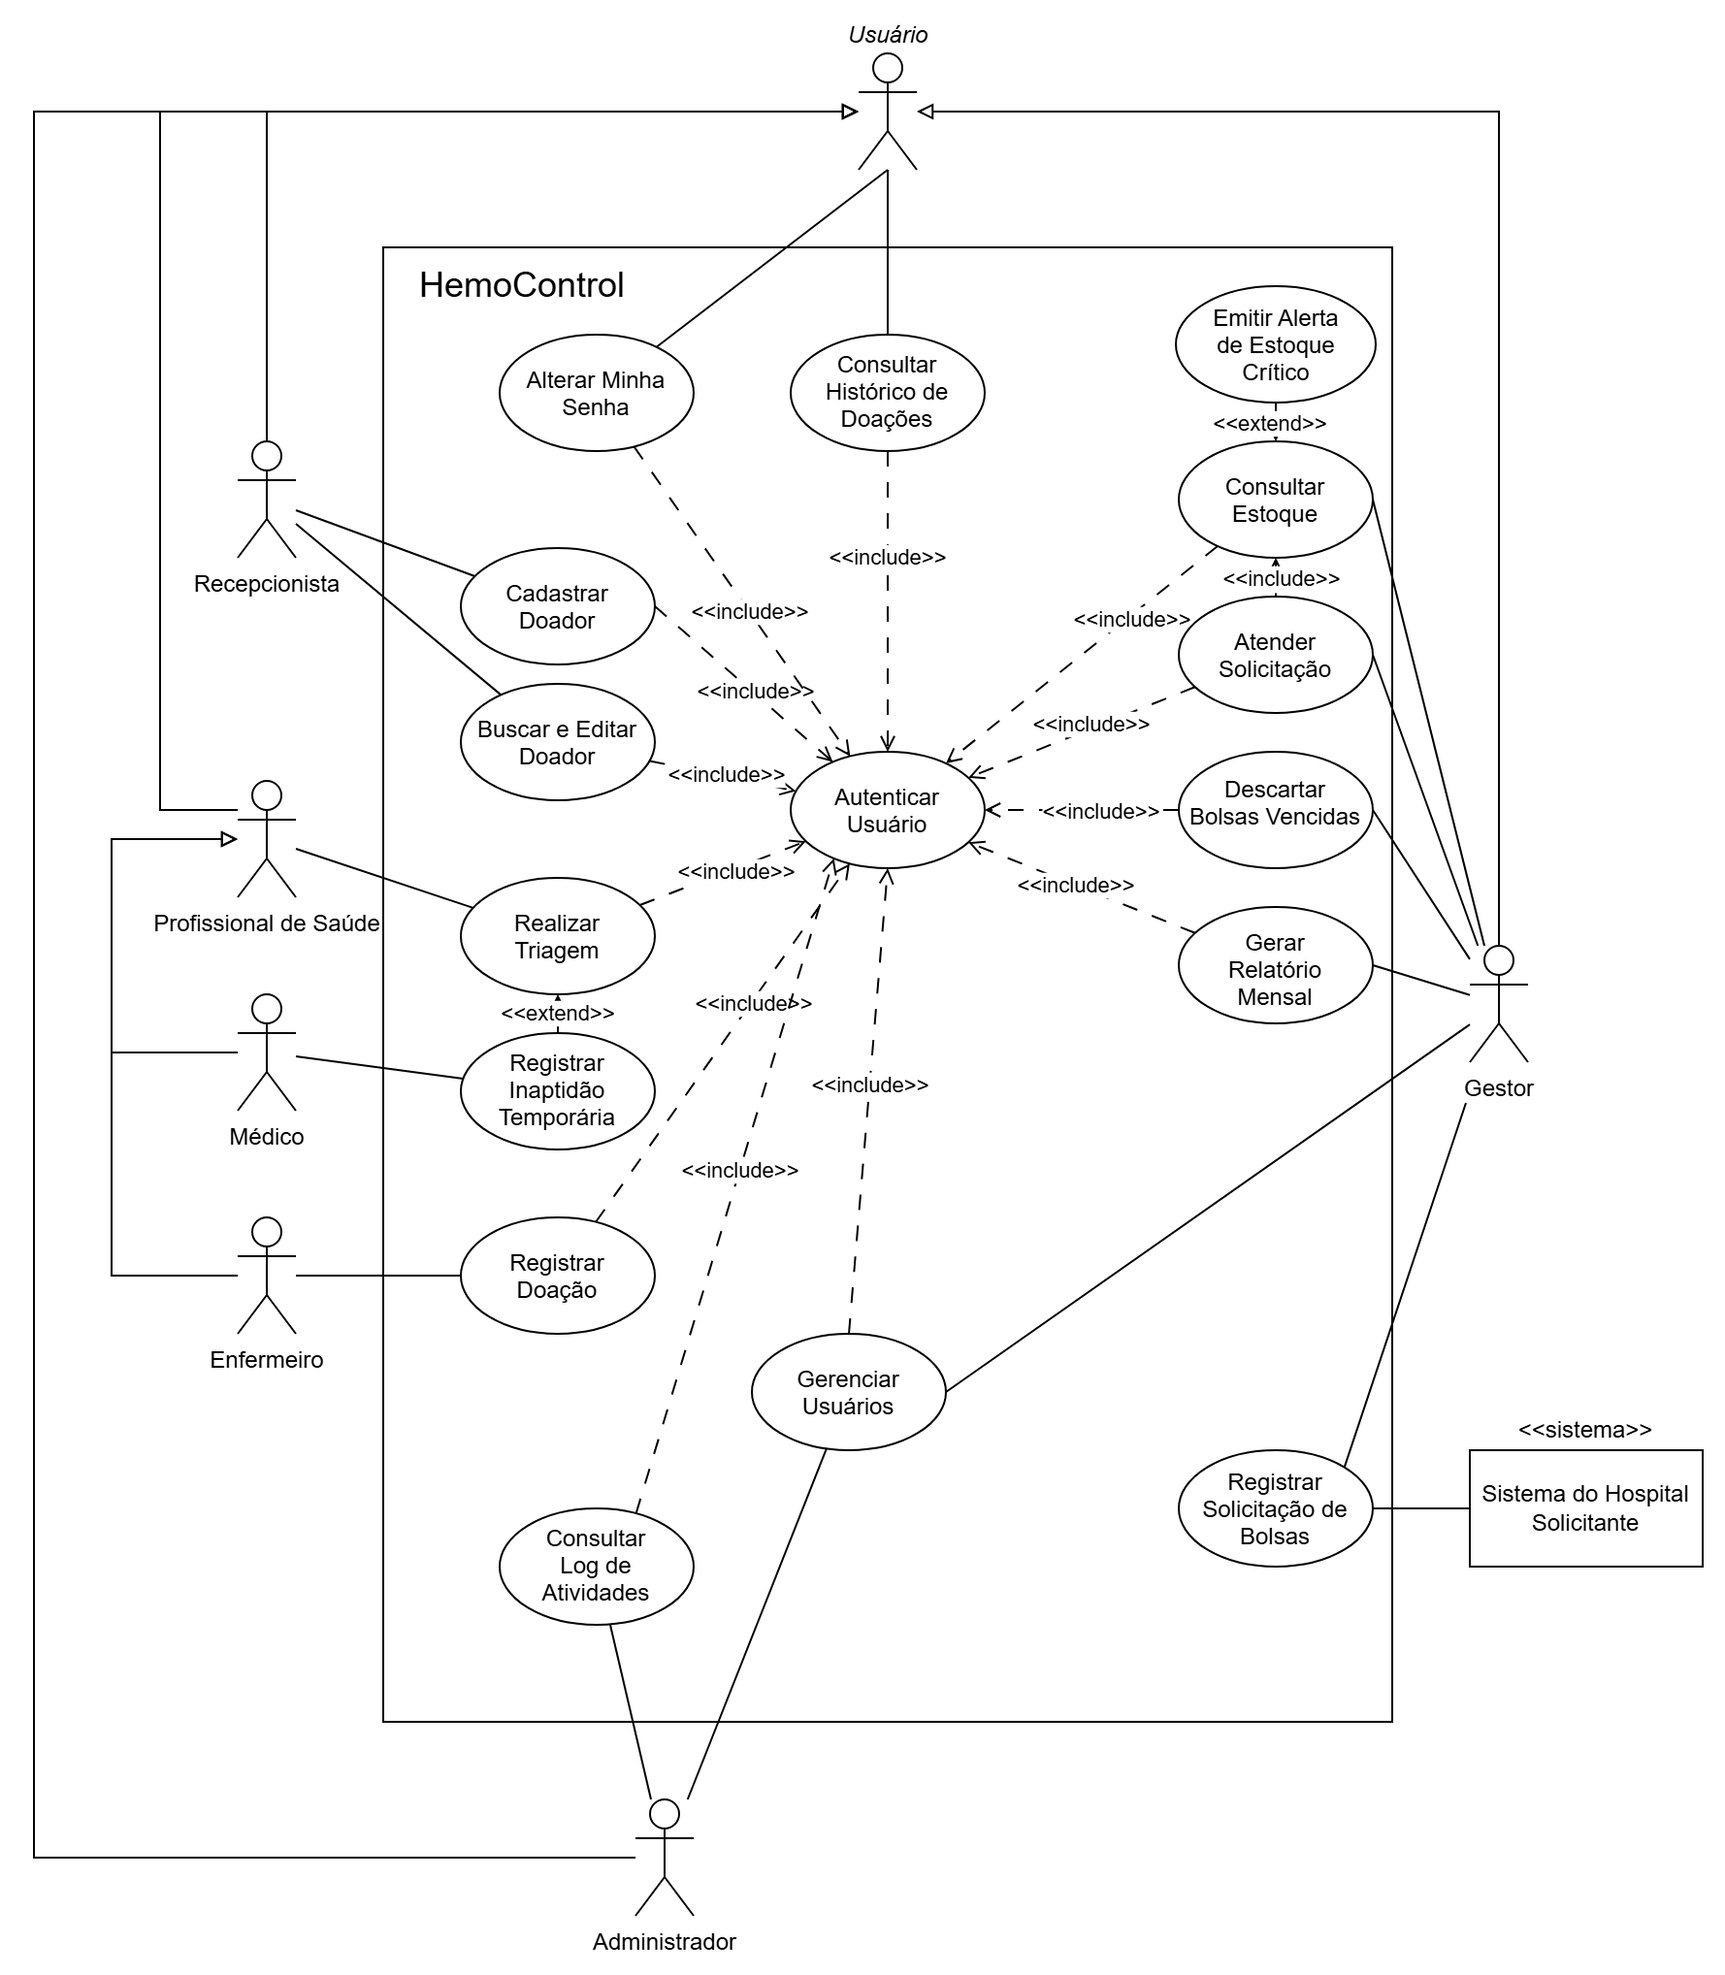
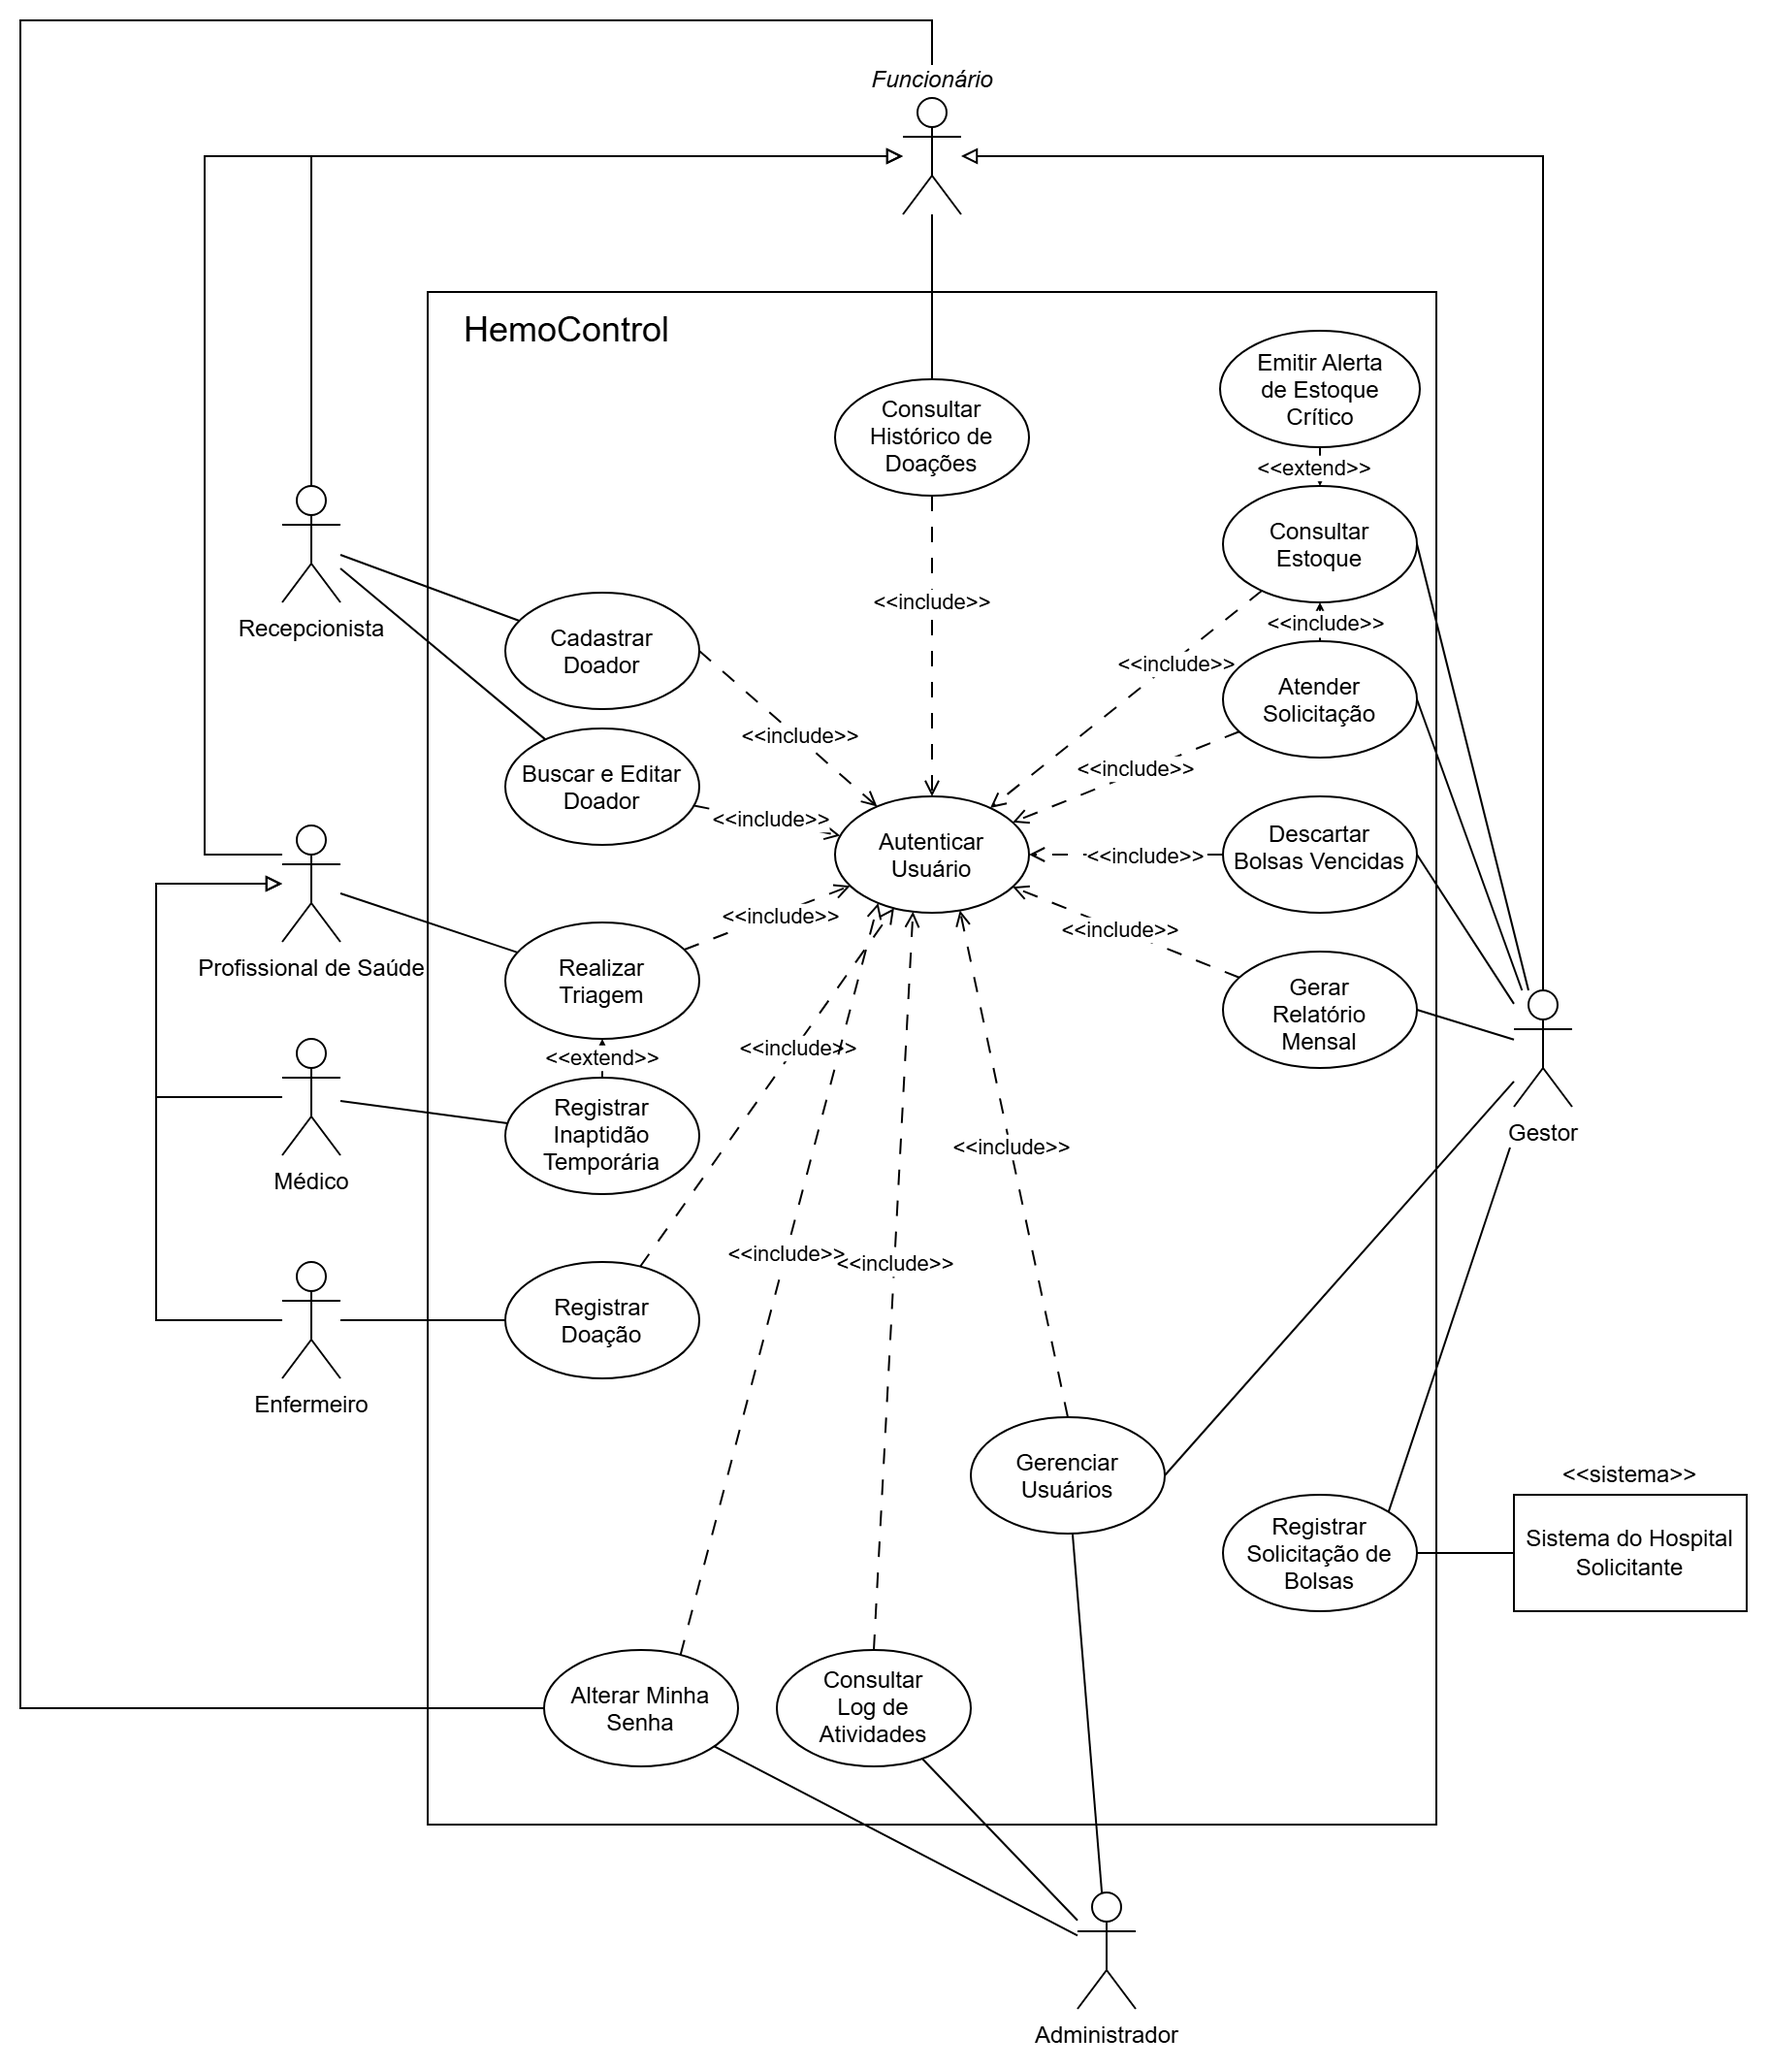
fix: remove o histórico de doações do administrador

diff --git a/src/server.js b/src/server.js
@@ -215,8 +215,8 @@ app.get('/api/doadores/:cpf', exigir(Recepcionista, ProfissionalDeSaude), (req, 
   res.json(doador);
 });
 
-// RF-12 — Consultar histórico de doações (todos os perfis; o Administrador usa para conferir registros do log)
-app.get('/api/doadores/:cpf/historico', exigir(Usuario), (req, res) => {
+// RF-12 — Consultar histórico de doações (perfis do banco de sangue; o Administrador não precisa dos dados dos doadores)
+app.get('/api/doadores/:cpf/historico', exigir(Recepcionista, ProfissionalDeSaude, Gestor), (req, res) => {
   const doador = repo.buscarDoadorPorCpf(req.params.cpf);
   if (!doador) return res.status(404).json({ erro: 'Doador não encontrado.' });
   const inaptidao = repo.inaptidoesDoDoador(doador.id).find((i) => i.estaVigente()) ?? null;

diff --git a/public/index.html b/public/index.html
@@ -170,7 +170,7 @@
       <p class="mensagem" id="msg-doacao"></p>
     </section>
 
-    <section class="painel" id="painel-historico" data-perfis="RECEPCIONISTA MEDICO ENFERMEIRO GESTOR ADMINISTRADOR">
+    <section class="painel" id="painel-historico" data-perfis="RECEPCIONISTA MEDICO ENFERMEIRO GESTOR">
       <h2>Histórico de doações</h2>
       <form id="form-historico">
         <label>CPF do doador <input name="cpf" required placeholder="000.000.000-00" inputmode="numeric" maxlength="14" autocomplete="off"></label>

diff --git a/docs/requisitos.md b/docs/requisitos.md
@@ -50,7 +50,7 @@ Documentação no padrão de linguagem estruturada apresentado na Aula 2: identi
 
 ### RF-12
 **Nome:** Consultar histórico de doações
-**Descrição:** O sistema deve permitir que qualquer usuário autenticado consulte, pelo CPF, o histórico de doações de um doador, com data, volume, código da bolsa e situação de cada doação, além da data a partir da qual o doador pode doar novamente.
+**Descrição:** O sistema deve permitir que recepcionistas, médicos, enfermeiros e gestores consultem, pelo CPF, o histórico de doações de um doador, com data, volume, código da bolsa e situação de cada doação, além da data a partir da qual o doador pode doar novamente.
 
 ### RF-13
 **Nome:** Buscar e editar doador
@@ -146,4 +146,4 @@ Documentação no padrão de linguagem estruturada apresentado na Aula 2: identi
 
 ### RN-12
 **Nome:** Quem gerencia cada conta
-**Descrição:** O gestor gerencia apenas contas de recepcionista, médico e enfermeiro. Contas de gestor são gerenciadas pelo administrador, para que um gestor não consiga desativar ou assumir a conta de outro. O administrador gerencia todos os perfis, menos outros administradores; contas de administrador são criadas e recuperadas apenas pelo terminal do servidor (`npm run admin`), pelo responsável técnico, e essas ações também ficam no log (RF-16). O administrador não usa as funções do banco de sangue (cadastro, triagem, doação, estoque, solicitações e relatório); ele só consulta o histórico de doações, para conferir registros que aparecem no log.
+**Descrição:** O gestor gerencia apenas contas de recepcionista, médico e enfermeiro. Contas de gestor são gerenciadas pelo administrador, para que um gestor não consiga desativar ou assumir a conta de outro. O administrador gerencia todos os perfis, menos outros administradores; contas de administrador são criadas e recuperadas apenas pelo terminal do servidor (`npm run admin`), pelo responsável técnico, e essas ações também ficam no log (RF-16). O administrador não usa as funções do banco de sangue nem consulta dados de doadores (cadastro, histórico, triagem, doação, estoque, solicitações e relatório).

diff --git a/README.md b/README.md
@@ -17,7 +17,7 @@ O objetivo é substituir controles manuais (papel e planilhas), reduzindo perdas
 - **Recepcionista:** cadastra doadores.
 - **Profissional de saúde (médico e enfermeiro):** realiza triagem e registra doações.
 - **Gestor:** consulta estoque, atende solicitações, gera relatórios e gerencia as contas de recepcionista, médico e enfermeiro.
-- **Administrador (responsável técnico):** gerencia todas as contas, inclusive as de gestor, e consulta o log de atividades. Não usa as funções do banco de sangue; só consulta o histórico de doações.
+- **Administrador (responsável técnico):** gerencia todas as contas, inclusive as de gestor, e consulta o log de atividades. Não usa as funções do banco de sangue nem vê dados de doadores.
 - **Hospital solicitante (sistema externo):** solicita bolsas.
 
 ### Funcionalidades planejadas
@@ -61,7 +61,7 @@ npm run seed
 
 ### Contas de demonstração
 
-Todas usam a senha `hemo123`. Cada perfil só acessa as funções que o diagrama de casos de uso atribui a ele, e todos podem consultar o histórico de doações.
+Todas usam a senha `hemo123`. Cada perfil só acessa as funções que o diagrama de casos de uso atribui a ele. Os perfis do banco de sangue também consultam o histórico de doações; o administrador não.
 
 | Usuário | Perfil | Pode fazer |
 |---|---|---|
